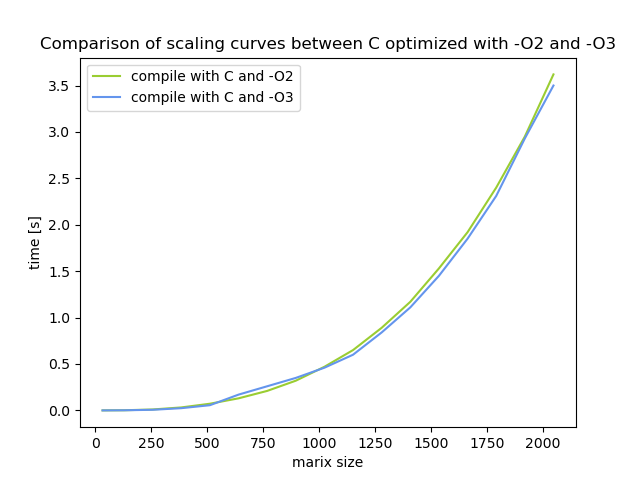
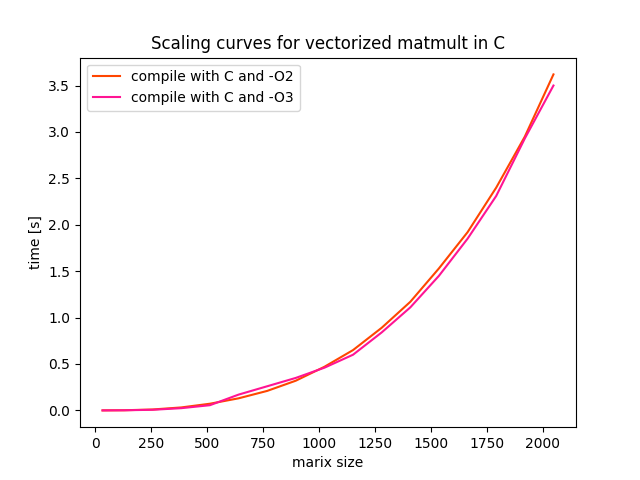
figures and so on

diff --git a/otp_matmult/figures.py b/otp_matmult/figures.py
@@ -6,14 +6,24 @@ import matplotlib.pyplot as plt
 matsize_list = [32, 64, 128, 256, 384, 512, 640, 768, 896, 1024, 1152, 1280, 1408, 1536, 1664, 1792, 1920, 2048]
 matsize_times_o3 = [1.8e-5, 4.2e-4, 1.4e-3, 6.6e-3, 2.4e-2, 5.6e-2, 0.17, 0.26, 0.35, 0.46, 0.60, 0.84, 1.11, 1.45, 1.85, 2.31, 2.93, 3.50]
 matsize_times_o2 = [9.8e-5, 7.6e-4, 1.4e-3, 1.0e-2, 3.2e-2, 7.2e-2, 0.13, 0.21, 0.32, 0.47, 0.65, 0.89, 1.17, 1.53, 1.92, 2.40, 2.95, 3.62]
-plt.plot(matsize_list, matsize_times_o2, label=r"compile with C and -O2", color='yellowgreen')
-plt.plot(matsize_list, matsize_times_o3, label=r"compile with C and -O3", color='cornflowerblue')
+plt.plot(matsize_list, matsize_times_o2, label=r"compile with C and -O2", color='orangered')
+plt.plot(matsize_list, matsize_times_o3, label=r"compile with C and -O3", color='deeppink')
 plt.xlabel(r"marix size")
 plt.ylabel('time [s]')
-plt.title('Comparison of scaling curves between C optimized with -O2 and -O3')
+plt.title('Scaling curves for vectorized matmult in C')
 plt.legend()
 plt.savefig('q10.png')
 plt.clf()
 
 #scaling curve q12
-matsize_list = [256, 512, ]
+matsize_list = [256, 512, 768, 1024, 1408, 1664, 2048]
+matsize_times_o3 = [5.7e-3, 3.3e-2, 0.10, 0.23, 0.58, 0.97, 1.87]
+matsize_times_o2 = [5.7e-3, 4.2e-2, 0.13, 0.27, 0.64, 1.01, 2.0]
+plt.plot(matsize_list, matsize_times_o2, label=r"compile with C and -O2", color='orangered')
+plt.plot(matsize_list, matsize_times_o3, label=r"compile with C and -O3", color='deeppink')
+plt.xlabel(r"marix size")
+plt.ylabel('time [s]')
+plt.title('Scaling curves for vectorized matmult in C')
+plt.legend()
+plt.savefig('q12.png')
+plt.clf()
